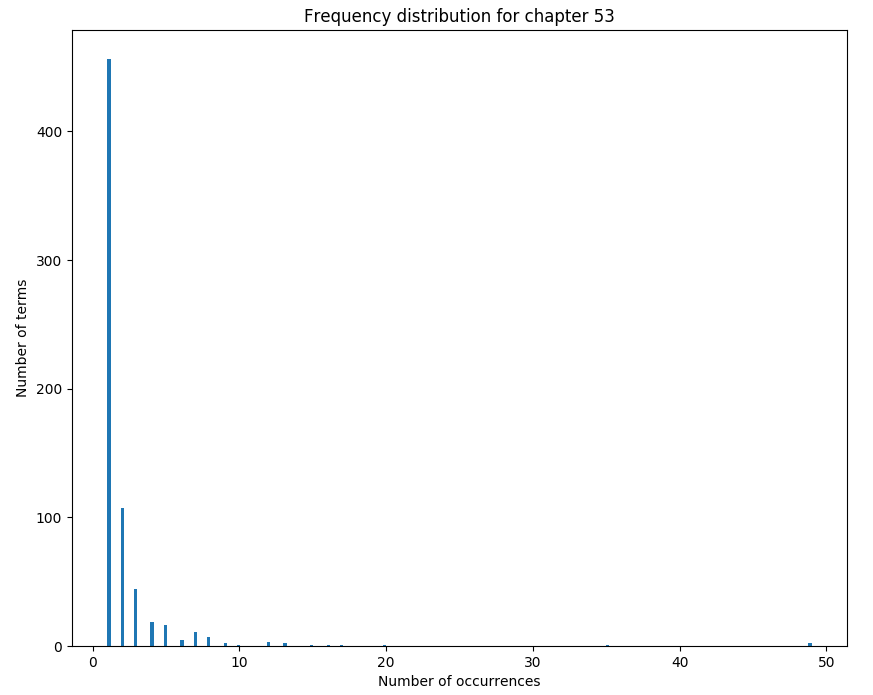
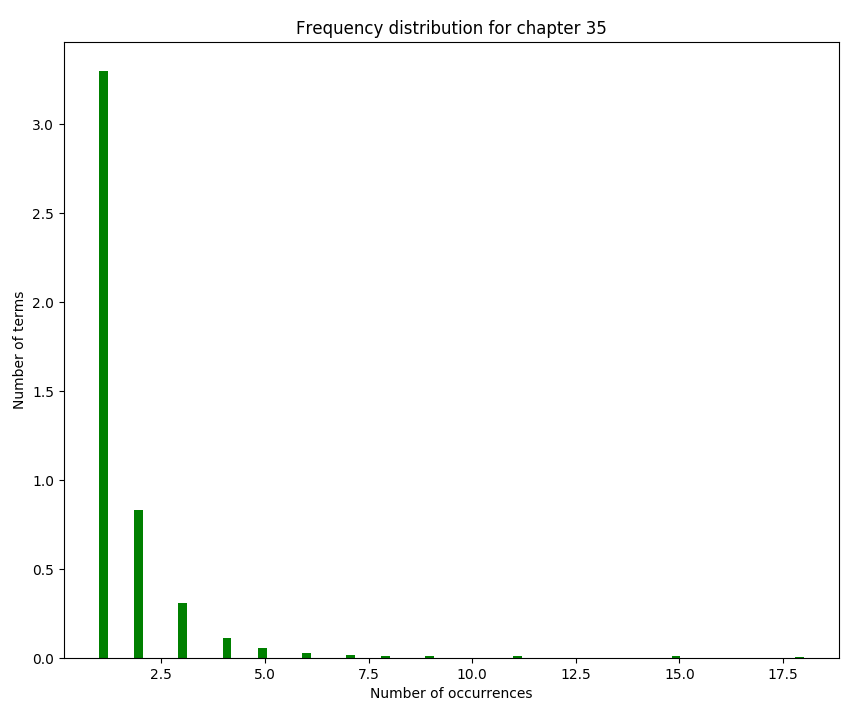
update images with new data

Changed region(s): [[0.0, 0.0604, 0.9777, 0.9971], [0.0917, 0.0, 0.9777, 0.0604]]

diff --git a/Assignment-2/main.tex b/Assignment-2/main.tex
@@ -92,20 +92,20 @@ The procedure is as follows:
 			Chapter Number & Top 20 Words & Chapter Number & Top 20 Words \\
 			\hline
 			\hline
-			62 & \lq\lq, \rq\rq, mr, elizabeth, could, would, said, darcy, bennet, much, must, sister, miss, one, lady, jane, bingley, know, though, never &
-			18 & mr, \lq\lq, \rq\rq, darcy, elizabeth, could, said, bingley, though, wickham, sister, say, lady, much, must, may, would, time, collins, dance\\
+			18 & mr, darcy, elizabeth, could, said, bingley, though, wickham, sister, say, lady, much, must, may, would, time, collins, dance, however, make &
+			43 & mr, elizabeth, could, gardiner, said, might, master, thought, darcy, much, every, know, room, aunt, time, good, little, seen, uncle, manner \\ 
 			\hline
-			43 & \lq\lq,\rq\rq, mr, elizabeth, could, gardiner, said, might, master, darcy, thought, much, every, know, room, aunt, time, little, seen, good & 
-			47 &  \lq\lq, \rq\rq, could, know, elizabeth, lydia, well, mr, jane, give, think, must, u, would, might, wickham, hope, much, one, colonel  \\
+			47 & could, know, elizabeth, lydia, well, mr, jane, give, would, think, must, might, u, much, wickham, one, hope, every, colonel, make  &
+			16 & mr, darcy, elizabeth, wickham, could, said, lady, man, manner, father, much, pride, collins, phillips, nothing, catherine, believe, know, thought, must \\
 			\hline
-			16 & \lq\lq, \rq\rq, mr, darcy, elizabeth, wickham, could, said, lady, man, much, father, pride, manner, collins, phillips, nothing, know, believe, catherine &
-			46 & \lq\lq, \rq\rq could, mr, lydia, elizabeth, must, would, letter, though, nothing, one, know, darcy, u, never, first, colonel, well, gardiner\\
+			46 & could, mr, lydia, elizabeth, must, would, though, letter, nothing, one, know, darcy, u, first, colonel, never, father, gardiner, well, ill &
+			53 & mr, said, know, could, elizabeth, bennet, bingley, sister, jane, come, see, without, one, much, daughter, looked, never, must, soon, time \\
 			\hline
-			53 & \lq\lq, \rq\rq, mr, said, know, could, elizabeth, bingley, bennet, sister, jane, come, see, without, one, soon, must, daughter, looked, never &
-			52 & \lq\lq, \rq\rq, would, mr, wickham, could, must, uncle, time, darcy, lydia, sister, know, done, every, much, never, soon, u, though  \\
+			35 & mr, sister, could, father,  wickam, must, would, last, soon, letter, year, one, though, every, shall, may, feeling, manner, night, two  &
+			52 & would, mr, wickham, could, must, uncle, darcy, time, sister, lydia, every, done, much, know, though, soon, town, never, u, letter  \\
 			\hline
-			35 & mr, sister, could, \lq\lq, wickam, father, must, would, last, soon, letter, year, one, feeling, may, shall, every, though, two, friend   &
-			56 & \lq\lq, \rq\rq, elizabeth, bennet, lady, miss, catherine, would, mr, ladyship, nephew, shall, must, know, said, say, make, well, mother, family \\
+			56 & elizabeth, bennet, lady, miss, catherine, would, mr, ladyship, nephew, know, shall, said, make, must, say, mother, family, well, moment, though &
+			29 & lady, mr, catherine, elizabeth, could, much, sir, said, miss, ladyship, governess, one, de, without, manner, william, daughter, sister, mother \\
 			\hline
 		\end{tabular}
 	\end{center}
@@ -120,7 +120,7 @@ The procedure is as follows:
 \end{flushleft}
 \subsubsection{Top 20 words}
 \begin{flushleft}
-	\lq\lq, \rq\rq, mr, elizabeth, could, would, said, darcy, bennet, much, must, sister, miss, one, lady, jane, bingley, know, though, time
+	mr, elizabeth, could, would, said, darcy, bennet, much, must, sister, miss, one, lady, jane, bingley, know, though, never, time, soon
 \end{flushleft}
 \subsubsection{Observations}
 TODO
@@ -133,7 +133,7 @@ TODO
 \end{flushleft}
 \subsubsection{Top 20 words}
 \begin{flushleft}
-    would, mr, much, could, elizabeth, little, one, without, great, \lq\lq, soon, day, \rq\rq, said, must, time, never, family, see, however \\
+    would, mr, much, could, elizabeth, little, one, without, great, soon, day, said, must, time, never, family, see, however, sister, well \\
 \end{flushleft}
 \subsubsection{Scatter Plot}
 \begin{flushleft}
@@ -150,7 +150,7 @@ TODO
 TODO
 \subsubsection{Top 20 words}
 \begin{flushleft}
-    mr, would, \lq\lq, much, elizabeth, \rq\rq, sister, said, miss, one, must, without, little, soon, every, though, however, could, know, time
+	mr, would, elizabeth, one, much, without, little, could, said, bennet, however, time, first, make, jane, man, though, thought, hope, many
 \end{flushleft}
 \subsubsection{Observations}
 TODO

diff --git a/Assignment-2/src/task.py b/Assignment-2/src/task.py
@@ -124,7 +124,7 @@ if p.chapter_wise:
 
         plt.figure(figsize=(10, 8))
         plt.title('Frequency distribution for chapter {}'.format(chapter))
-        plt.hist(cnt.values(), bins='auto')
+        plt.hist(cnt.values(), bins='auto', color='g', rwidth=3.0, density=True)
         plt.xlabel('Number of occurrences')
         plt.ylabel('Number of terms')
         plt.show()
@@ -159,10 +159,11 @@ else:
     if p.top_k_scheme != "custom":
         plt.figure(figsize=(10, 8))
         plt.title('{} distribution for book'.format(p.top_k_scheme))
-        plt.hist(term_clf_list, bins='auto')
+        plt.hist(term_clf_list, bins='auto', color='g', rwidth=3.0, density=True)
         plt.xlabel('Number of occurrences')
         plt.ylabel('Number of terms')
         plt.show()
+
 
     if p.scatter_freq_entropy:
         # Compute the total occurrences of every term in the book
